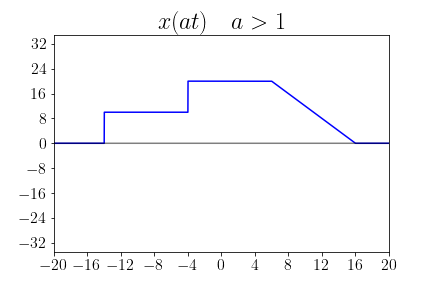
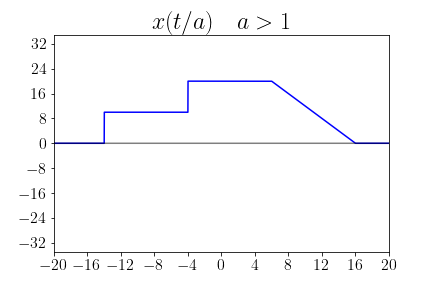
Update documentation

Changed region(s): [[0.3611, 0.0312, 0.662, 0.125]]

diff --git a/courses/dsp/systems.html b/courses/dsp/systems.html
@@ -907,33 +907,35 @@ table th:nth-of-type(2) {
 <span class="c1"># plt.savefig(os.path.join(saved_dir,&#39;signals_dt.png&#39;)); plt.close()</span>
 
 <span class="n">a</span><span class="o">=</span><span class="mi">2</span>
-<span class="n">fig</span><span class="p">,</span> <span class="n">ax</span> <span class="o">=</span> <span class="n">plt</span><span class="o">.</span><span class="n">subplots</span><span class="p">(</span><span class="mi">1</span><span class="p">,</span> <span class="mi">1</span><span class="p">)</span>
-<span class="n">mpl_axes_plot</span><span class="p">(</span><span class="n">ax</span><span class="p">,</span> <span class="n">f</span><span class="o">.</span><span class="n">subs</span><span class="p">(</span><span class="n">t</span><span class="p">,</span> <span class="n">t</span><span class="o">/</span><span class="n">a</span><span class="p">),</span> <span class="p">(</span><span class="n">t</span><span class="p">,</span> <span class="o">-</span><span class="mi">20</span><span class="p">,</span> <span class="mi">20</span><span class="p">),</span> <span class="n">color</span><span class="o">=</span><span class="s1">&#39;b&#39;</span><span class="p">)</span>
-<span class="n">ax</span><span class="o">.</span><span class="n">set_xlim</span><span class="p">(</span><span class="o">-</span><span class="mi">20</span><span class="p">,</span> <span class="mi">20</span><span class="p">,</span> <span class="mf">0.2</span><span class="p">)</span>
-<span class="n">ax</span><span class="o">.</span><span class="n">set_ylim</span><span class="p">(</span><span class="o">-</span><span class="mi">35</span><span class="p">,</span> <span class="mi">35</span><span class="p">,</span> <span class="mf">0.2</span><span class="p">)</span>
-<span class="n">ax</span><span class="o">.</span><span class="n">set_title</span><span class="p">(</span><span class="sa">r</span><span class="s1">&#39;$x(at) \quad a&gt;1$&#39;</span><span class="p">)</span>
-<span class="n">plt</span><span class="o">.</span><span class="n">savefig</span><span class="p">(</span><span class="n">os</span><span class="o">.</span><span class="n">path</span><span class="o">.</span><span class="n">join</span><span class="p">(</span><span class="n">saved_dir</span><span class="p">,</span><span class="s1">&#39;signals_a_gt_1_ct.png&#39;</span><span class="p">));</span> <span class="n">plt</span><span class="o">.</span><span class="n">close</span><span class="p">()</span>
-
-<span class="n">fig</span><span class="p">,</span> <span class="n">ax</span> <span class="o">=</span> <span class="n">plt</span><span class="o">.</span><span class="n">subplots</span><span class="p">(</span><span class="mi">1</span><span class="p">,</span> <span class="mi">1</span><span class="p">)</span>
-<span class="n">mpl_axes_stem</span><span class="p">(</span><span class="n">ax</span><span class="p">,</span> <span class="n">f</span><span class="o">.</span><span class="n">subs</span><span class="p">(</span><span class="n">t</span><span class="p">,</span> <span class="n">t</span><span class="o">/</span><span class="n">a</span><span class="p">),</span> <span class="p">(</span><span class="n">t</span><span class="p">,</span> <span class="o">-</span><span class="mi">30</span><span class="p">,</span> <span class="mi">30</span><span class="p">,</span> <span class="mi">1</span><span class="p">),</span> <span class="n">linefmt</span><span class="o">=</span><span class="s1">&#39;b&#39;</span><span class="p">,</span> <span class="n">markerfmt</span><span class="o">=</span><span class="s1">&#39;bo&#39;</span><span class="p">)</span>
-<span class="n">ax</span><span class="o">.</span><span class="n">set_xlim</span><span class="p">(</span><span class="o">-</span><span class="mi">20</span><span class="p">,</span> <span class="mi">20</span><span class="p">,</span> <span class="mf">0.2</span><span class="p">)</span>
-<span class="n">ax</span><span class="o">.</span><span class="n">set_ylim</span><span class="p">(</span><span class="o">-</span><span class="mi">35</span><span class="p">,</span> <span class="mi">35</span><span class="p">,</span> <span class="mf">0.2</span><span class="p">)</span>
-<span class="n">ax</span><span class="o">.</span><span class="n">set_title</span><span class="p">(</span><span class="sa">r</span><span class="s1">&#39;$x[an] \quad a&gt;1$&#39;</span><span class="p">)</span>
-<span class="n">plt</span><span class="o">.</span><span class="n">savefig</span><span class="p">(</span><span class="n">os</span><span class="o">.</span><span class="n">path</span><span class="o">.</span><span class="n">join</span><span class="p">(</span><span class="n">saved_dir</span><span class="p">,</span><span class="s1">&#39;signals_a_gt_1_dt.png&#39;</span><span class="p">));</span> <span class="n">plt</span><span class="o">.</span><span class="n">close</span><span class="p">()</span>
 
 <span class="n">fig</span><span class="p">,</span> <span class="n">ax</span> <span class="o">=</span> <span class="n">plt</span><span class="o">.</span><span class="n">subplots</span><span class="p">(</span><span class="mi">1</span><span class="p">,</span> <span class="mi">1</span><span class="p">)</span>
 <span class="n">mpl_axes_plot</span><span class="p">(</span><span class="n">ax</span><span class="p">,</span> <span class="n">f</span><span class="o">.</span><span class="n">subs</span><span class="p">(</span><span class="n">t</span><span class="p">,</span> <span class="n">t</span><span class="o">*</span><span class="n">a</span><span class="p">),</span> <span class="p">(</span><span class="n">t</span><span class="p">,</span> <span class="o">-</span><span class="mi">20</span><span class="p">,</span> <span class="mi">20</span><span class="p">),</span> <span class="n">color</span><span class="o">=</span><span class="s1">&#39;b&#39;</span><span class="p">)</span>
 <span class="n">ax</span><span class="o">.</span><span class="n">set_xlim</span><span class="p">(</span><span class="o">-</span><span class="mi">20</span><span class="p">,</span> <span class="mi">20</span><span class="p">,</span> <span class="mf">0.2</span><span class="p">)</span>
 <span class="n">ax</span><span class="o">.</span><span class="n">set_ylim</span><span class="p">(</span><span class="o">-</span><span class="mi">35</span><span class="p">,</span> <span class="mi">35</span><span class="p">,</span> <span class="mf">0.2</span><span class="p">)</span>
-<span class="n">ax</span><span class="o">.</span><span class="n">set_title</span><span class="p">(</span><span class="sa">r</span><span class="s1">&#39;$x(t/a) \quad a&gt;1$&#39;</span><span class="p">)</span>
+<span class="n">ax</span><span class="o">.</span><span class="n">set_title</span><span class="p">(</span><span class="sa">r</span><span class="s1">&#39;$x(a*t) \quad a&gt;1$&#39;</span><span class="p">)</span>
 <span class="n">plt</span><span class="o">.</span><span class="n">savefig</span><span class="p">(</span><span class="n">os</span><span class="o">.</span><span class="n">path</span><span class="o">.</span><span class="n">join</span><span class="p">(</span><span class="n">saved_dir</span><span class="p">,</span><span class="s1">&#39;signals_a_lt_1_gt_0_ct.png&#39;</span><span class="p">));</span> <span class="n">plt</span><span class="o">.</span><span class="n">close</span><span class="p">()</span>
 
 <span class="n">fig</span><span class="p">,</span> <span class="n">ax</span> <span class="o">=</span> <span class="n">plt</span><span class="o">.</span><span class="n">subplots</span><span class="p">(</span><span class="mi">1</span><span class="p">,</span> <span class="mi">1</span><span class="p">)</span>
 <span class="n">mpl_axes_stem</span><span class="p">(</span><span class="n">ax</span><span class="p">,</span> <span class="n">f</span><span class="o">.</span><span class="n">subs</span><span class="p">(</span><span class="n">t</span><span class="p">,</span> <span class="n">t</span><span class="o">*</span><span class="n">a</span><span class="p">),</span> <span class="p">(</span><span class="n">t</span><span class="p">,</span> <span class="o">-</span><span class="mi">30</span><span class="p">,</span> <span class="mi">30</span><span class="p">,</span> <span class="mi">1</span><span class="p">),</span> <span class="n">linefmt</span><span class="o">=</span><span class="s1">&#39;b&#39;</span><span class="p">,</span> <span class="n">markerfmt</span><span class="o">=</span><span class="s1">&#39;bo&#39;</span><span class="p">)</span>
 <span class="n">ax</span><span class="o">.</span><span class="n">set_xlim</span><span class="p">(</span><span class="o">-</span><span class="mi">20</span><span class="p">,</span> <span class="mi">20</span><span class="p">,</span> <span class="mf">0.2</span><span class="p">)</span>
 <span class="n">ax</span><span class="o">.</span><span class="n">set_ylim</span><span class="p">(</span><span class="o">-</span><span class="mi">35</span><span class="p">,</span> <span class="mi">35</span><span class="p">,</span> <span class="mf">0.2</span><span class="p">)</span>
-<span class="n">ax</span><span class="o">.</span><span class="n">set_title</span><span class="p">(</span><span class="sa">r</span><span class="s1">&#39;$x[n/a] \quad a&gt;1$&#39;</span><span class="p">)</span>
+<span class="n">ax</span><span class="o">.</span><span class="n">set_title</span><span class="p">(</span><span class="sa">r</span><span class="s1">&#39;$x[a*n] \quad a&gt;1$&#39;</span><span class="p">)</span>
 <span class="n">plt</span><span class="o">.</span><span class="n">savefig</span><span class="p">(</span><span class="n">os</span><span class="o">.</span><span class="n">path</span><span class="o">.</span><span class="n">join</span><span class="p">(</span><span class="n">saved_dir</span><span class="p">,</span><span class="s1">&#39;signals_a_lt_1_gt_0_dt.png&#39;</span><span class="p">));</span> <span class="n">plt</span><span class="o">.</span><span class="n">close</span><span class="p">()</span>
+
+
+<span class="n">fig</span><span class="p">,</span> <span class="n">ax</span> <span class="o">=</span> <span class="n">plt</span><span class="o">.</span><span class="n">subplots</span><span class="p">(</span><span class="mi">1</span><span class="p">,</span> <span class="mi">1</span><span class="p">)</span>
+<span class="n">mpl_axes_plot</span><span class="p">(</span><span class="n">ax</span><span class="p">,</span> <span class="n">f</span><span class="o">.</span><span class="n">subs</span><span class="p">(</span><span class="n">t</span><span class="p">,</span> <span class="n">t</span><span class="o">/</span><span class="n">a</span><span class="p">),</span> <span class="p">(</span><span class="n">t</span><span class="p">,</span> <span class="o">-</span><span class="mi">20</span><span class="p">,</span> <span class="mi">20</span><span class="p">),</span> <span class="n">color</span><span class="o">=</span><span class="s1">&#39;b&#39;</span><span class="p">)</span>
+<span class="n">ax</span><span class="o">.</span><span class="n">set_xlim</span><span class="p">(</span><span class="o">-</span><span class="mi">20</span><span class="p">,</span> <span class="mi">20</span><span class="p">,</span> <span class="mf">0.2</span><span class="p">)</span>
+<span class="n">ax</span><span class="o">.</span><span class="n">set_ylim</span><span class="p">(</span><span class="o">-</span><span class="mi">35</span><span class="p">,</span> <span class="mi">35</span><span class="p">,</span> <span class="mf">0.2</span><span class="p">)</span>
+<span class="n">ax</span><span class="o">.</span><span class="n">set_title</span><span class="p">(</span><span class="sa">r</span><span class="s1">&#39;$x(t/a) \quad a&gt;1$&#39;</span><span class="p">)</span>
+<span class="n">plt</span><span class="o">.</span><span class="n">savefig</span><span class="p">(</span><span class="n">os</span><span class="o">.</span><span class="n">path</span><span class="o">.</span><span class="n">join</span><span class="p">(</span><span class="n">saved_dir</span><span class="p">,</span><span class="s1">&#39;signals_a_gt_1_ct.png&#39;</span><span class="p">));</span> <span class="n">plt</span><span class="o">.</span><span class="n">close</span><span class="p">()</span>
+
+<span class="n">fig</span><span class="p">,</span> <span class="n">ax</span> <span class="o">=</span> <span class="n">plt</span><span class="o">.</span><span class="n">subplots</span><span class="p">(</span><span class="mi">1</span><span class="p">,</span> <span class="mi">1</span><span class="p">)</span>
+<span class="n">mpl_axes_stem</span><span class="p">(</span><span class="n">ax</span><span class="p">,</span> <span class="n">f</span><span class="o">.</span><span class="n">subs</span><span class="p">(</span><span class="n">t</span><span class="p">,</span> <span class="n">t</span><span class="o">/</span><span class="n">a</span><span class="p">),</span> <span class="p">(</span><span class="n">t</span><span class="p">,</span> <span class="o">-</span><span class="mi">30</span><span class="p">,</span> <span class="mi">30</span><span class="p">,</span> <span class="mi">1</span><span class="p">),</span> <span class="n">linefmt</span><span class="o">=</span><span class="s1">&#39;b&#39;</span><span class="p">,</span> <span class="n">markerfmt</span><span class="o">=</span><span class="s1">&#39;bo&#39;</span><span class="p">)</span>
+<span class="n">ax</span><span class="o">.</span><span class="n">set_xlim</span><span class="p">(</span><span class="o">-</span><span class="mi">20</span><span class="p">,</span> <span class="mi">20</span><span class="p">,</span> <span class="mf">0.2</span><span class="p">)</span>
+<span class="n">ax</span><span class="o">.</span><span class="n">set_ylim</span><span class="p">(</span><span class="o">-</span><span class="mi">35</span><span class="p">,</span> <span class="mi">35</span><span class="p">,</span> <span class="mf">0.2</span><span class="p">)</span>
+<span class="n">ax</span><span class="o">.</span><span class="n">set_title</span><span class="p">(</span><span class="sa">r</span><span class="s1">&#39;$x[n/a] \quad a&gt;1$&#39;</span><span class="p">)</span>
+<span class="n">plt</span><span class="o">.</span><span class="n">savefig</span><span class="p">(</span><span class="n">os</span><span class="o">.</span><span class="n">path</span><span class="o">.</span><span class="n">join</span><span class="p">(</span><span class="n">saved_dir</span><span class="p">,</span><span class="s1">&#39;signals_a_gt_1_dt.png&#39;</span><span class="p">));</span> <span class="n">plt</span><span class="o">.</span><span class="n">close</span><span class="p">()</span>
 </pre></div>
 </div>
 </div>
